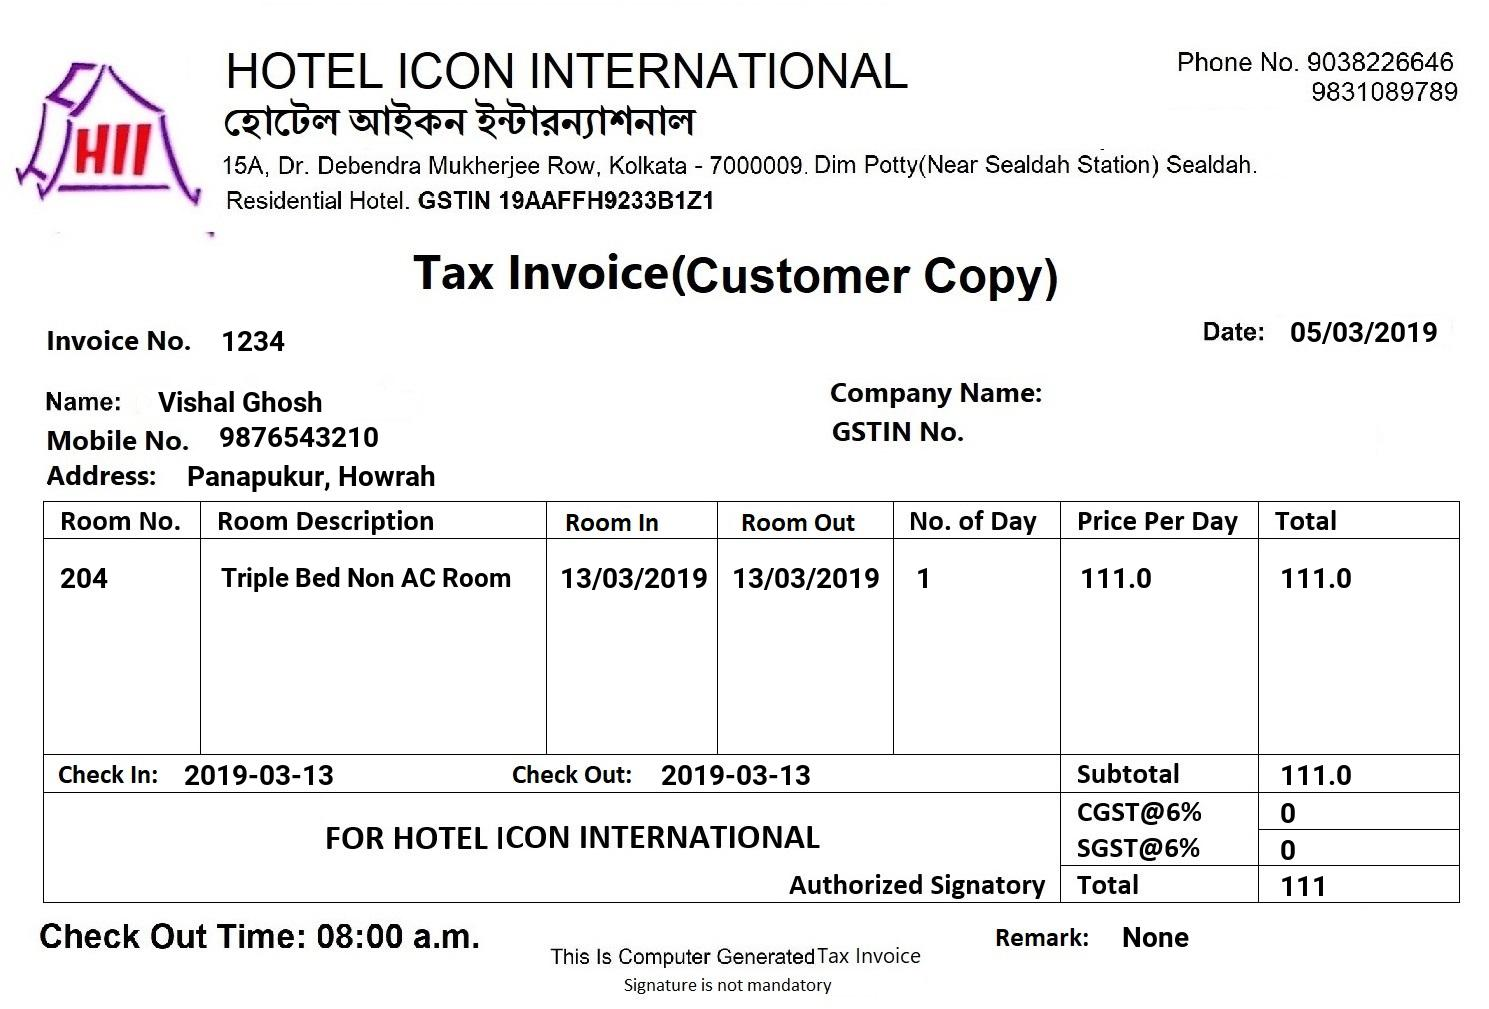
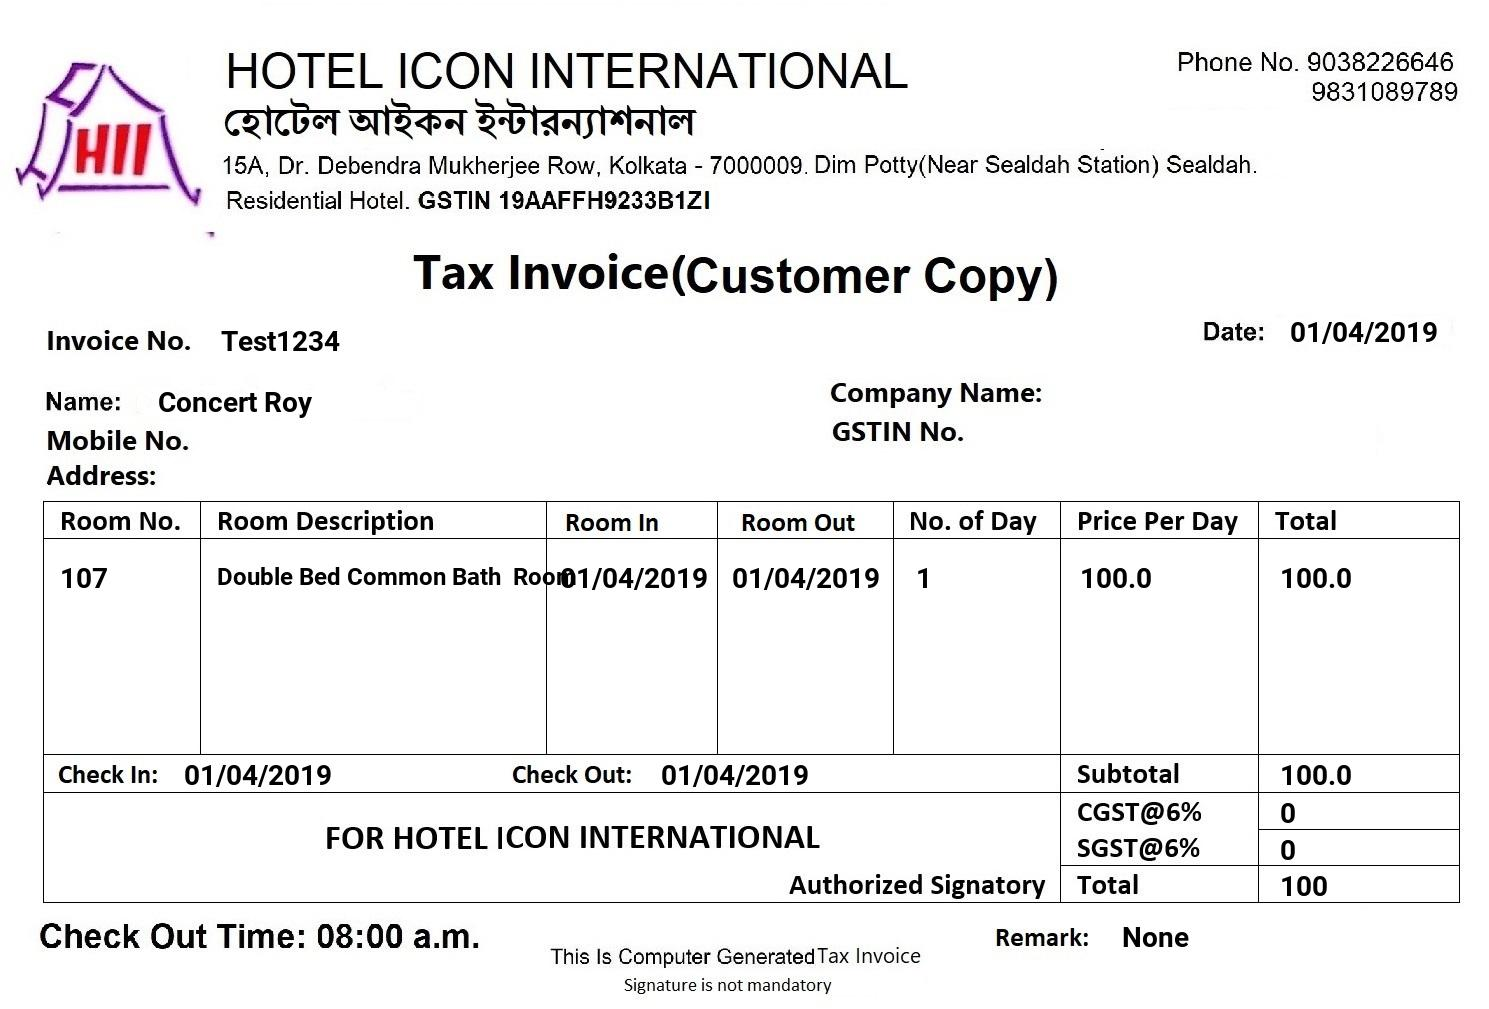
DAD

diff --git a/mainapp/templates/profile_menu.html b/mainapp/templates/profile_menu.html
@@ -5,10 +5,10 @@
 <div class="container mt-4">
   <h2 class="text-center m-5">Hello, Admin</h2>
 <div class="row justify-content-center text-center">
-    <div class="col-5 m-2"><a href="{% url 'addinvoice' %}" class="btn btn-lg btn-block btn-success p-5">Tax Invoice</a></div>
-    <div class="col-5 m-2"><a href="#" class="btn btn-lg btn-block btn-danger p-5">View Tax Invoice</a></div>
-    <div class="col-5 m-2"><a href="#" class="btn btn-lg btn-block btn-warning p-5">Dues Bill</a></div>
-    <div class="col-5 m-2"><a href="#" class="btn btn-lg btn-block btn-info p-5">Money Reciept</a></div>
+    <div class="col-5 m-2"><a href="{% url 'addinvoice' %}" class="btn btn-lg btn-block btn-success py-5">Tax Invoice</a></div>
+    <div class="col-5 m-2"><a href="#" class="btn btn-lg btn-block btn-danger py-5">View Tax Invoice</a></div>
+    <div class="col-5 m-2"><a href="#" class="btn btn-lg btn-block btn-warning py-5">Dues Bill</a></div>
+    <div class="col-5 m-2"><a href="#" class="btn btn-lg btn-block btn-info py-5">Money Reciept</a></div>
 </div>
 <a href="#" class="m-5 px-5">Edit Tax Invoice</a>
 </div>

diff --git a/mainapp/templates/imageview.html b/mainapp/templates/imageview.html
@@ -4,7 +4,7 @@
     <meta charset="UTF-8">
     <meta name="viewport" content="width=device-width, initial-scale=1.0">
     <meta http-equiv="X-UA-Compatible" content="ie=edge">
-    <title>{{img}}</title>
+    <title>Tax Invoice</title>
 </head>
 <body>
     <div class="container-fluid">

diff --git a/mainapp/utilities.py b/mainapp/utilities.py
@@ -71,16 +71,16 @@ def gen_inv(o,copy='cc'):
         draw = ImageDraw.Draw(im)
         font = ImageFont.truetype("robold.ttf",size=28)
         draw.text((158,386),str(o.name),fill="rgb(0,0,0)",font=font)
-        draw.text((219,421),str(o.phone),fill="rgb(0,0,0)",font=font)
-        draw.text((187,460),str(o.address),fill="rgb(0,0,0)",font=font)
+        draw.text((219,421),o.phone if o.phone else "",fill="rgb(0,0,0)",font=font)
+        draw.text((187,460),o.address if o.address else "",fill="rgb(0,0,0)",font=font)
         draw.text((221,325),str(o.invoice_no),fill="rgb(0,0,0)",font=font)
         draw.text((1290,316),dateformat(o.date.isoformat()),fill="rgb(0,0,0)",font=font)
         draw.text((1080,376),o.company_name if o.company_name else "",fill="rgb(0,0,0)",font=font)
         draw.text((1000,415),o.gstin if o.gstin else "",fill="rgb(0,0,0)",font=font)
         #room_1
         draw.text((60,562),o.room_no,fill="rgb(0,0,0)",font=font)
-        font = ImageFont.truetype("robold.ttf",size=26)
-        draw.text((221,562),desc,fill="rgb(0,0,0)",font=font)
+        font = ImageFont.truetype("robold.ttf",size=24)
+        draw.text((215,562),desc,fill="rgb(0,0,0)",font=font)
         font = ImageFont.truetype("robold.ttf",size=28)
         draw.text((560,562),dateformat(o.check_in.isoformat()),fill="rgb(0,0,0)",font=font)
         draw.text((732,562),dateformat(o.check_out.isoformat()),fill="rgb(0,0,0)",font=font)
@@ -90,8 +90,8 @@ def gen_inv(o,copy='cc'):
         #room_2
         if o.room_no_2:
             draw.text((60,612),o.room_no_2,fill="rgb(0,0,0)",font=font)
-            font = ImageFont.truetype("robold.ttf",size=26)
-            draw.text((221,612),desc2,fill="rgb(0,0,0)",font=font)
+            font = ImageFont.truetype("robold.ttf",size=24)
+            draw.text((215,612),desc2,fill="rgb(0,0,0)",font=font)
             font = ImageFont.truetype("robold.ttf",size=28)
             draw.text((560,612),dateformat(o.check_in_2.isoformat()),fill="rgb(0,0,0)",font=font)
             draw.text((732,612),dateformat(o.check_out_2.isoformat()),fill="rgb(0,0,0)",font=font)
@@ -101,8 +101,8 @@ def gen_inv(o,copy='cc'):
         #room_3
         if o.room_no_3:
             draw.text((60,662),o.room_no_3,fill="rgb(0,0,0)",font=font)
-            font = ImageFont.truetype("robold.ttf",size=26)
-            draw.text((221,662),desc3,fill="rgb(0,0,0)",font=font)
+            font = ImageFont.truetype("robold.ttf",size=24)
+            draw.text((215,662),desc3,fill="rgb(0,0,0)",font=font)
             font = ImageFont.truetype("robold.ttf",size=28)
             draw.text((560,662),dateformat(o.check_in_3.isoformat()),fill="rgb(0,0,0)",font=font)
             draw.text((732,662),dateformat(o.check_out_3.isoformat()),fill="rgb(0,0,0)",font=font)
